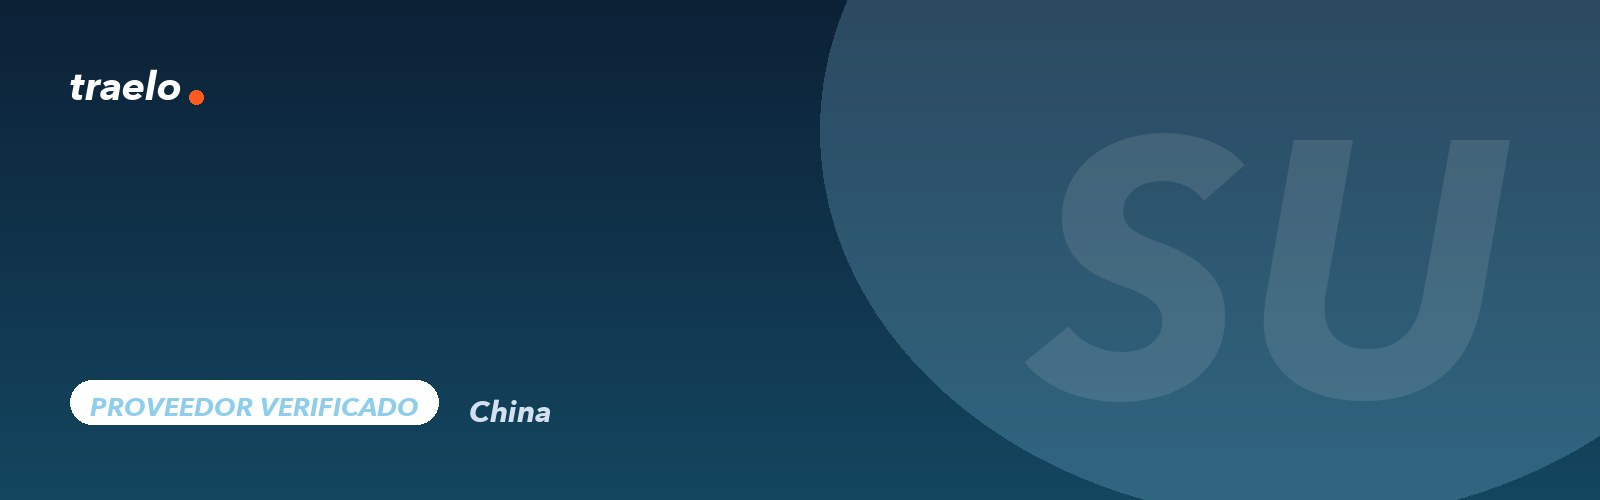
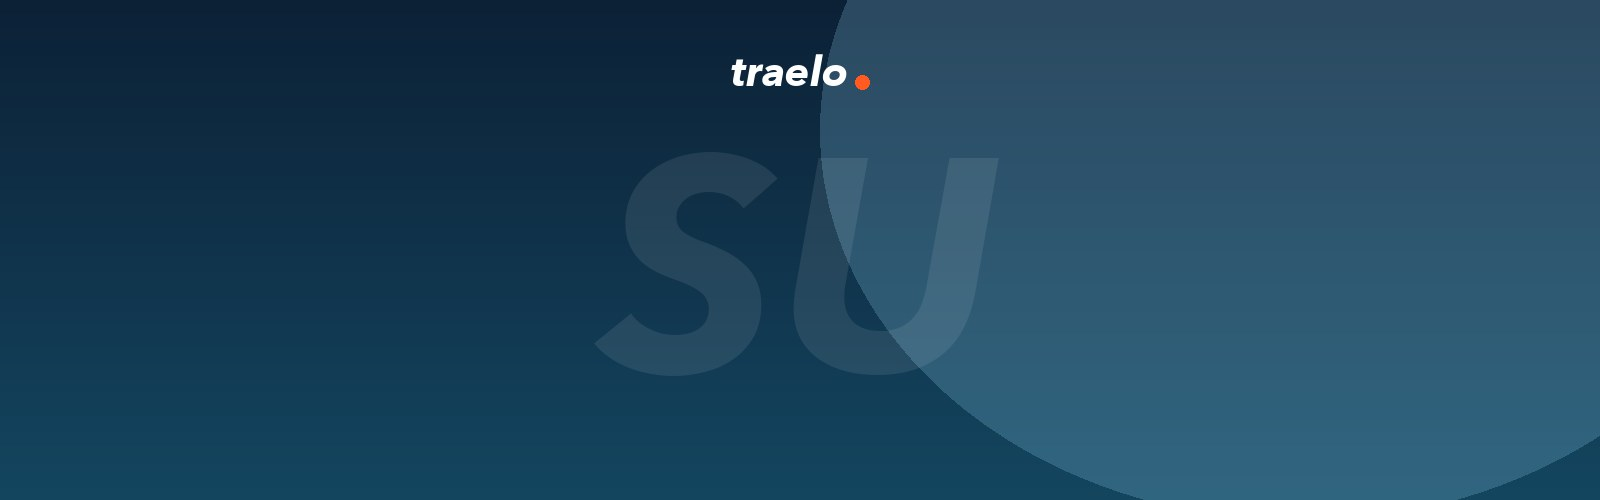
Portadas de fábrica a prueba de recorte en mobile
El cover tenía la marca traelo. y el chip "PROVEEDOR VERIFICADO" pegados a los
bordes; en mobile el object-cover los recortaba feo. Se regeneran centrando la
marca y el monograma, y quitando el chip/país (ya están en el header HTML).

Changed region(s): [[0.0312, 0.75, 0.3438, 0.87], [0.4375, 0.12, 0.5625, 0.18], [0.0312, 0.15, 0.125, 0.21]]

diff --git a/scripts/gen-covers.py b/scripts/gen-covers.py
@@ -40,20 +40,16 @@ def cover(name, country):
     glow=Image.new("RGBA",(CW,CH),(0,0,0,0)); gd=ImageDraw.Draw(glow)
     gd.ellipse([CW-780,-260,CW+180,520],fill=(143,205,235,60))
     img=Image.alpha_composite(img.convert("RGBA"),glow).convert("RGB"); d=ImageDraw.Draw(img)
-    # huge translucent monogram
-    mono=initials(name); mf=F(360)
+    # monograma translúcido gigante, CENTRADO (a prueba de recorte en mobile)
+    mono=initials(name); mf=F(300)
     layer=Image.new("RGBA",(CW,CH),(0,0,0,0)); ld=ImageDraw.Draw(layer)
-    mw=ld.textlength(mono,font=mf); ld.text((CW-mw-90, CH/2-215), mono, font=mf, fill=(255,255,255,26))
+    mw=ld.textlength(mono,font=mf); ld.text(((CW-mw)/2, CH/2-180), mono, font=mf, fill=(255,255,255,22))
     img=Image.alpha_composite(img.convert("RGBA"),layer).convert("RGB"); d=ImageDraw.Draw(img)
-    # traelo mark
-    wm=F(40); d.text((70,60),"traelo",font=wm,fill=WHITE)
-    wmw=d.textlength("traelo",font=wm); d.ellipse([70+wmw+7,60+30,70+wmw+7+14,60+44],fill=ORANGE)
-    # verificado chip
-    cf=F(26); lab="PROVEEDOR VERIFICADO"; lw=d.textlength(lab,font=cf)
-    d.rounded_rectangle([70,CH-120,70+lw+40,CH-120+44],radius=22,fill=(255,255,255,30))
-    d.text((70+20,CH-110),lab,font=cf,fill=CELESTE)
-    # país
-    pf=F(30); d.text((70+lw+70,CH-108),country,font=pf,fill=(210,224,240))
+    # marca traelo. CENTRADA arriba (sobrevive el recorte horizontal)
+    wm=F(42); tw=d.textlength("traelo",font=wm); total=tw+7+14; tx=(CW-total)/2
+    d.text((tx,44),"traelo",font=wm,fill=WHITE)
+    d.ellipse([tx+tw+7,44+31,tx+tw+7+14,44+45],fill=ORANGE)
+    # (nombre / país / verificado ya van en el header HTML — no se hornean acá)
     img.save(os.path.join(OUT,f"{slug(name)}-cover.jpg"),quality=88)
 
 rows=subprocess.run(["psql","postgresql://postgres:superplataforma@localhost:54340/superplataforma",
